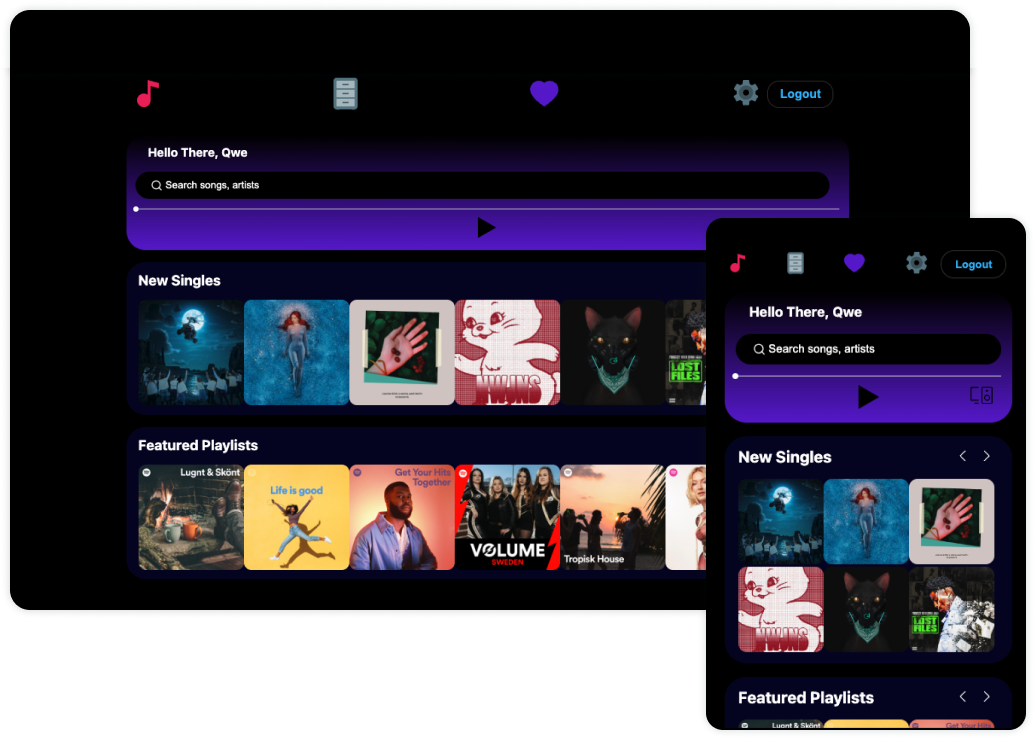
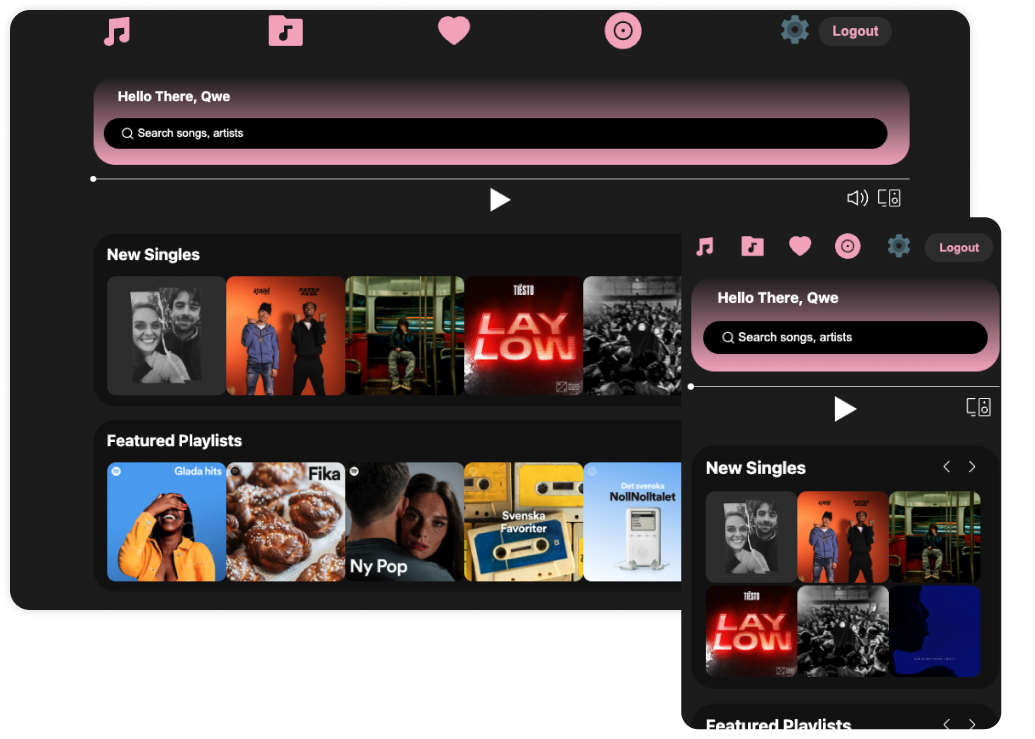
styling color adjustments

diff --git a/src/styled-components/icons-styled.js b/src/styled-components/icons-styled.js
@@ -1,30 +1,34 @@
 import styled from 'styled-components';
 import { themeColor } from '../styled-components/theme';
 
-import { FcMusic } from 'react-icons/fc';
-import { FcFolder } from 'react-icons/fc';
+import { TiNotes } from 'react-icons/ti';
+import { RiFolderMusicFill } from 'react-icons/ri';
 import { BiSearchAlt } from 'react-icons/bi';
 import { SlArrowLeft } from 'react-icons/sl';
 import { SlArrowRight } from 'react-icons/sl';
 import { AiFillHeart } from 'react-icons/ai';
+import { FaRecordVinyl } from 'react-icons/fa';
 import { FcSettings } from 'react-icons/fc';
 import { MdOutlineAdminPanelSettings } from 'react-icons/md';
 
-export const Home = styled(FcMusic)`
+export const Home = styled(TiNotes)`
+   /* fill: ${themeColor}; */
+   fill: ${({ theme }) => theme.colors.theme};
+
    transform: scale(3);
-   color: ${themeColor};
 
    & :hover {
       opacity: 0.8;
+      /* fill: ${themeColor}; */
    }
    @media (max-width: ${({ theme }) => theme.mobile}) {
       transform: scale(1.8);
    }
 `;
 
-export const Library = styled(FcFolder)`
+export const Library = styled(RiFolderMusicFill)`
    transform: scale(3);
-   color: ${themeColor};
+   fill: ${themeColor};
 
    & :hover {
       opacity: 0.8;
@@ -46,6 +50,17 @@ export const Search = styled(BiSearchAlt)`
    }
 `;
 export const Heart = styled(AiFillHeart)`
+   transform: scale(2.8);
+   color: ${themeColor};
+
+   & :hover {
+      opacity: 0.8;
+   }
+   @media (max-width: ${({ theme }) => theme.mobile}) {
+      transform: scale(1.8);
+   }
+`;
+export const Record = styled(FaRecordVinyl)`
    transform: scale(2.8);
    color: ${themeColor};
 

diff --git a/src/styled-components/button-styled.js b/src/styled-components/button-styled.js
@@ -1,7 +1,9 @@
 import styled from 'styled-components';
+import { themeColor, hoverEffect } from '../styled-components/theme';
 
 export const Button = styled.button`
-   border: 1px solid #333;
+   /* border: 1px solid #333; */
+   border: none;
    cursor: pointer;
    font-weight: bold;
    font-size: 1rem;
@@ -9,13 +11,14 @@ export const Button = styled.button`
    padding: 0.5rem 1rem;
    border-radius: 1rem;
    background-color: transparent;
-   color: ${({ color }) => color || '#3CB9FF'};
+   color: ${({ theme }) => theme.colors.theme};
+   background-color: ${({ theme }) => theme.colors.gray};
    transition: 0.4s ease-in-out;
 
    &:hover {
       opacity: 0.8;
       transform: scale(0.98);
-      background-color: ${({ color }) => color || '#162349'};
+      box-shadow: ${hoverEffect};
    }
 
    @media (max-width: ${({ theme }) => theme.mobile}) {

diff --git a/src/styled-components/theme.js b/src/styled-components/theme.js
@@ -1,21 +1,25 @@
 export const theme = {
    colors: {
       header: '#000',
-      body: '#000',
+      body: '#1E1E1E',
       black: '#000',
-      card: 'rgb(2, 0, 36)',
+      card: '#111',
+      // card: 'rgb(2, 0, 36)',
       title: '#fff',
       text: '#fff',
       cardtext: '#fff',
       footer: '#003333',
       shine: '#1ed760',
       blue: '#3CB9FF',
-      theme: '#6100d4',
+      gray: '#333',
+      gray2: '#162349',
+      dark: '#3b3b3b',
+      theme: '#F2ABC3',
    },
    mobile: '768px',
 };
 
-export const themeColor = '#6100d4';
+export const themeColor = '#F2ABC3';
 export const darkThemeColor = '#162349';
 export const hoverEffect = `rgba(0, 0, 0, 0.56) 0px 22px 70px 4px`;
 export const cardShadow = `rgba(0, 0, 0, 0.1) 0px 20px 25px -5px,

diff --git a/src/styled-components/slider-styled.js b/src/styled-components/slider-styled.js
@@ -8,7 +8,7 @@ export const Slider = styled.div`
    padding: 0 1rem 0.6rem 1rem;
    margin-top: 1rem;
 
-   background: rgb(2, 0, 36);
+   background-color: ${({ theme }) => theme.colors.card};
    border-radius: 1.6rem;
 
    h4 {

diff --git a/src/styled-components/container-styled.js b/src/styled-components/container-styled.js
@@ -18,6 +18,7 @@ export const LandingContainer = styled.div`
 
    p {
       color: ${({ theme }) => theme.colors.text};
+      line-height: 1.5rem;
       font-weight: 300;
       margin-top: 1rem;
       margin-bottom: 2rem;

diff --git a/src/components/utils/btn.css b/src/components/utils/btn.css
@@ -7,7 +7,7 @@
    cursor: pointer;
    padding: 0.25rem 0;
    line-height: 1;
-   color: #354aa9;
+   color: #3b3b3b;
 }
 .job-btn:hover {
    color: var(--clr-primary-5);
